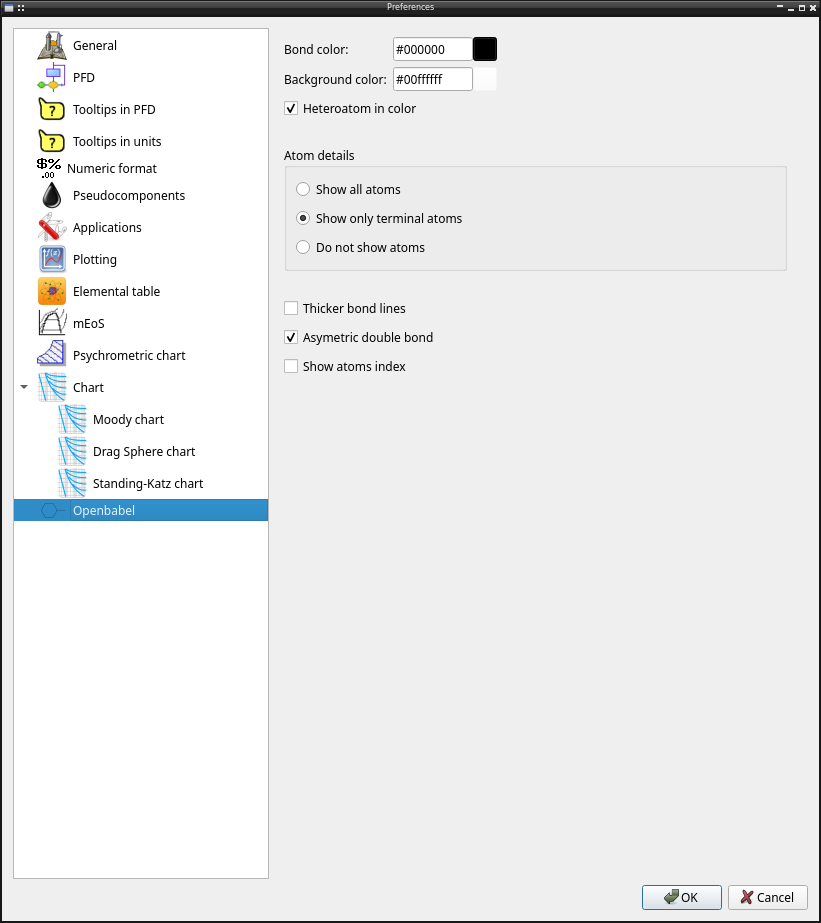
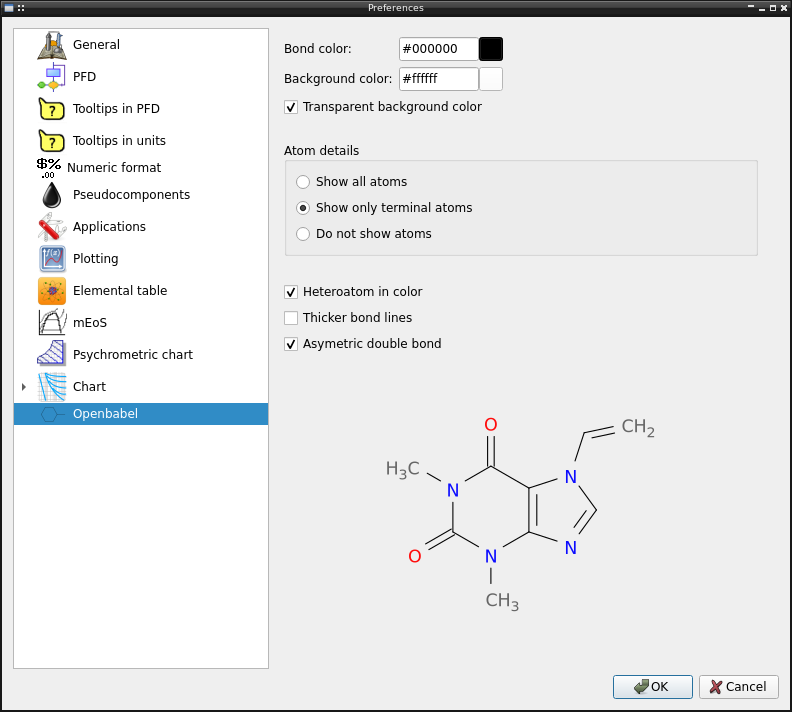
Fix openbabel extended formula representation changin svg format for png

diff --git a/lib/openbabel.py b/lib/openbabel.py
@@ -30,7 +30,7 @@ from configparser import ConfigParser
 import tempfile
 import os
 
-from tools.qt import QtCore, QtWidgets, QtSvg, QtSvgWidgets, QtGui
+from tools.qt import QtCore, QtWidgets, QtGui
 
 try:
     from openbabel.pybel import readstring
@@ -55,35 +55,36 @@ def imageFromSmile(smile, fname, conf):
 
     # Get dict parameters for exported image configuration
     # Parameters available from openbabel documentation
-    # https://openbabel.org/docs/current/FileFormats/SVG_2D_depiction.html
+    # https://openbabel.org/docs/current/FileFormats/PNG_2D_depiction.html
 
+    # - p <num>: px Image size, default 300
+    # - w <pixels>: image width (or from image size)
+    # - h <pixels>: image height (or from image size)
+    # - c <num>: number of columns in table
+    # - r <num>: number of rows in table
+    # - N <num>:max number objects to be output
     # + u: no element-specific atom coloring
     # - U: can define alternate color to internally-specified
     # + b: background color
     # + C: Do not draw terminal C (and H) explicitly
     # + a: draw all carbon atoms
     # - d: do not display molecule name
+    # - m: do not add margins to the image
     # + s: use asymmetric double bonds
     # + t: use thicker lines
-    # - e: embed molecule as CML
-    # - p <num>: px Scale to bond length(single mol only)
-    # - P <num>:px Single mol in defined size image
-    # - c <num>: number of columns in table
-    # - cols <num>: number of columns in table(not displayed in GUI)
-    # - r <num>: number of rows in table
-    # - rows <num>: number of rows in table(not displayed in GUI)
-    # - N <num>:max number objects to be output
-    # - l: draw grid lines
-    # + i: add index to each atom
-    # - j: do not embed javascript
-    # - x: omit XML declaration (not displayed in GUI)
     # - A: display aliases, if present
+    # - O <format ID>: Format of embedded text. For example, molfile or smi.
+    #                  If there is no parameter, input format is used.
+    # - y <additional chunk ID>: Write to a chunk with specified ID
 
     opt = {}
+    opt["m"] = None
 
     opt["B"] = conf.get("Openbabel", 'BondColor')
-    alpha = conf.getint("Openbabel", "BackColorAlpha")
+    alpha = conf.getboolean("Openbabel", "BackColorTransparent")
     if alpha:
+        opt["b"] = "none"
+    else:
         opt["b"] = conf.get("Openbabel", 'BackgroundColor')
 
     if not conf.getboolean("Openbabel", 'AtomsColor'):
@@ -100,24 +101,10 @@ def imageFromSmile(smile, fname, conf):
     if conf.getboolean("Openbabel", 'AsymetricDouble'):
         opt["s"] = None
 
-    if conf.getboolean("Openbabel", 'AtomIndex'):
-        opt["i"] = None
+    opt["x"] = None
 
     mol = readstring("smi", smile)
-    mol.write("svg", filename=fname, overwrite=True, opt=opt)
-
-    # Edit the generated file to edit the rect viewBox to fill all the image
-    with open(fname, 'r') as file:
-        data = file.read()
-
-    # Add too transparence to the background color
-    opacity = f' fill-opacity="{alpha/255:0.2f}"'
-    data = data.replace(
-        '<rect x="0" y="0" width="100" height="100"',
-        '<rect x="0" y="0" width="200" height="200"' + opacity)
-
-    with open(fname, 'w') as file:
-        file.write(data)
+    mol.write("_png2", filename=fname, overwrite=True, opt=opt)
 
 
 class ConfBabel(QtWidgets.QDialog):
@@ -131,12 +118,13 @@ class ConfBabel(QtWidgets.QDialog):
         self.BondColor.valueChanged.connect(self.updateImage)
         layout.addWidget(self.BondColor, 1, 2)
         layout.addWidget(QtWidgets.QLabel(self.tr("Background color:")), 2, 1)
-        self.BackColor = ColorSelector(isAlpha=True)
+        self.BackColor = ColorSelector()
         self.BackColor.valueChanged.connect(self.updateImage)
         layout.addWidget(self.BackColor, 2, 2)
-        self.checkColor = QtWidgets.QCheckBox(self.tr("Heteroatom in color"))
-        self.checkColor.stateChanged.connect(self.updateImage)
-        layout.addWidget(self.checkColor, 3, 1, 1, 2)
+        self.BackColorTransparent = QtWidgets.QCheckBox(
+            self.tr("Transparent background color"))
+        self.BackColorTransparent.stateChanged.connect(self.updateImage)
+        layout.addWidget(self.BackColorTransparent, 3, 1, 1, 2)
         layout.addItem(QtWidgets.QSpacerItem(
             20, 20, QtWidgets.QSizePolicy.Policy.Fixed,
             QtWidgets.QSizePolicy.Policy.Fixed), 4, 1, 1, 2)
@@ -157,22 +145,22 @@ class ConfBabel(QtWidgets.QDialog):
         layout.addItem(QtWidgets.QSpacerItem(
             20, 20, QtWidgets.QSizePolicy.Policy.Fixed,
             QtWidgets.QSizePolicy.Policy.Fixed), 6, 1, 1, 2)
+        self.checkColor = QtWidgets.QCheckBox(self.tr("Heteroatom in color"))
+        self.checkColor.stateChanged.connect(self.updateImage)
+        layout.addWidget(self.checkColor, 7, 1, 1, 2)
         self.checkTighBond = QtWidgets.QCheckBox(self.tr("Thicker bond lines"))
         self.checkTighBond.stateChanged.connect(self.updateImage)
-        layout.addWidget(self.checkTighBond, 7, 1, 1, 2)
+        layout.addWidget(self.checkTighBond, 8, 1, 1, 2)
         self.checkAsym = QtWidgets.QCheckBox(self.tr("Asymetric double bond"))
         self.checkAsym.stateChanged.connect(self.updateImage)
-        layout.addWidget(self.checkAsym, 8, 1, 1, 2)
-        self.checkIndex = QtWidgets.QCheckBox(self.tr("Show atoms index"))
-        self.checkIndex.stateChanged.connect(self.updateImage)
-        layout.addWidget(self.checkIndex, 9, 1, 1, 2)
+        layout.addWidget(self.checkAsym, 9, 1, 1, 2)
 
         if os.environ["openbabel"] == "False":
             self.example = QtWidgets.QLabel(
                 self.tr("Openbabel library don´t found"))
             self.example.setStyleSheet("color: red")
         else:
-            self.example = QtSvgWidgets.QSvgWidget()
+            self.example = QtWidgets.QLabel()
         layout.addWidget(self.example, 13, 1, 1, 2,
                          QtCore.Qt.AlignmentFlag.AlignCenter)
 
@@ -183,9 +171,10 @@ class ConfBabel(QtWidgets.QDialog):
         if config and config.has_section("Openbabel"):
             self.BondColor.setColor(config.get("Openbabel", 'BondColor'))
 
-            alpha = config.getint("Openbabel", 'BackColorAlpha')
+            self.BackColorTransparent.setChecked(
+                config.getboolean("Openbabel", 'BackColorTransparent'))
             self.BackColor.setColor(
-                config.get("Openbabel", 'BackgroundColor'), alpha)
+                config.get("Openbabel", 'BackgroundColor'))
             self.checkColor.setChecked(
                 config.getboolean("Openbabel", 'AtomsColor'))
             self.radioAll.setChecked(
@@ -198,12 +187,11 @@ class ConfBabel(QtWidgets.QDialog):
                 config.getboolean("Openbabel", 'TighBond'))
             self.checkAsym.setChecked(
                 config.getboolean("Openbabel", 'AsymetricDouble'))
-            self.checkIndex.setChecked(
-                config.getboolean("Openbabel", 'AtomIndex'))
 
             self.updateImage(config)
 
     def updateImage(self, config=None):
+        """Update image shown when changing some of the parameters"""
         if os.environ["openbabel"] == "False":
             return
 
@@ -211,14 +199,11 @@ class ConfBabel(QtWidgets.QDialog):
             config = ConfigParser()
             config = self.value(config)
 
-        imageFile = tempfile.NamedTemporaryFile("w", suffix=".svg")
-        smile = "C=CN1C=NC2=C1C(=O)N(C(=O)N2C)C"
-        imageFromSmile(smile, imageFile.name, config)
+        with tempfile.NamedTemporaryFile("w", suffix=".png") as imageFile:
+            smile = "C=CN1C=NC2=C1C(=O)N(C(=O)N2C)C"
+            imageFromSmile(smile, imageFile.name, config)
 
-        renderer = QtSvg.QSvgRenderer(imageFile.name)
-        self.example.load(imageFile.name)
-        self.example.renderer().setViewBox(QtCore.QRect(0, 0, 200, 200))
-        self.example.setFixedSize(renderer.defaultSize())
+            self.example.setPixmap(QtGui.QPixmap(imageFile.name))
 
     def value(self, config):
         """Update ConfigParser instance with the config"""
@@ -227,8 +212,8 @@ class ConfBabel(QtWidgets.QDialog):
         config.set("Openbabel", "BondColor", self.BondColor.color.name())
         config.set("Openbabel", "BackgroundColor",
                    self.BackColor.color.name(QtGui.QColor.NameFormat.HexRgb))
-        config.set("Openbabel", "BackColorAlpha",
-                   str(self.BackColor.color.alpha()))
+        config.set("Openbabel", "BackColorTransparent",
+                   str(self.BackColorTransparent.isChecked()))
         config.set("Openbabel", "AtomsColor", str(self.checkColor.isChecked()))
         config.set("Openbabel", "AtomsAll", str(self.radioAll.isChecked()))
         config.set("Openbabel", "AtomsEnd", str(self.radioEnd.isChecked()))
@@ -237,5 +222,4 @@ class ConfBabel(QtWidgets.QDialog):
                    str(self.checkTighBond.isChecked()))
         config.set("Openbabel", "AsymetricDouble",
                    str(self.checkAsym.isChecked()))
-        config.set("Openbabel", "AtomIndex", str(self.checkIndex.isChecked()))
         return config

diff --git a/UI/viewComponents.py b/UI/viewComponents.py
@@ -32,7 +32,7 @@ import tempfile
 
 from numpy import array, linspace
 from scipy import optimize
-from tools.qt import QtCore, QtGui, QtWidgets, QtSvg, QtSvgWidgets
+from tools.qt import QtCore, QtGui, QtWidgets
 
 from lib.plot import PlotDialog
 from lib.compuestos import (Componente, MuL_Parametric, Pv_Antoine, Pv_Wagner,
@@ -882,7 +882,7 @@ class View_Component(QtWidgets.QDialog):
 
         labelFormula2 = QtWidgets.QLabel(self.tr("Expanded Formula"))
         lytGeneral.addWidget(labelFormula2, 5, 1)
-        self.formula2 = QtSvgWidgets.QSvgWidget()
+        self.formula2 = QtWidgets.QLabel()
         lytGeneral.addWidget(self.formula2, 6, 1, 5, 3,
                              QtCore.Qt.AlignmentFlag.AlignCenter)
         if os.environ["openbabel"] != "True":
@@ -1675,13 +1675,10 @@ class View_Component(QtWidgets.QDialog):
         if self.cmp.smile and os.environ["openbabel"] == "True":
             self.smile.setText(self.cmp.smile)
 
-            imageFile = tempfile.NamedTemporaryFile("w", suffix=".svg")
+            imageFile = tempfile.NamedTemporaryFile("w", suffix=".png")
             imageFromSmile(self.cmp.smile, imageFile.name, Preferences)
 
-            renderer = QtSvg.QSvgRenderer(imageFile.name)
-            self.formula2.load(imageFile.name)
-            self.formula2.renderer().setViewBox(QtCore.QRect(0, 0, 200, 200))
-            self.formula2.setFixedSize(renderer.defaultSize())
+            self.formula2.setPixmap(QtGui.QPixmap(imageFile.name))
 
         if self.cmp.UNIFAC != []:
             self.UNIFAC.setRowCount(len(self.cmp.UNIFAC))

diff --git a/tools/firstrun.py b/tools/firstrun.py
@@ -589,7 +589,7 @@ def Preferences():
     conf.add_section("Openbabel")
     conf.set("Openbabel", "BondColor", "#000000")
     conf.set("Openbabel", "BackgroundColor", "#ffffff")
-    conf.set("Openbabel", "BackColorAlpha", "0")
+    conf.set("Openbabel", "BackColorTransparent", "True")
     conf.set("Openbabel", "AtomsColor", "True")
     conf.set("Openbabel", "AtomsAll", "False")
     conf.set("Openbabel", "AtomsEnd", "True")
@@ -597,7 +597,6 @@ def Preferences():
     conf.set("Openbabel", "AtomsIndex", "False")
     conf.set("Openbabel", "TighBond", "False")
     conf.set("Openbabel", "AsymetricDouble", "True")
-    conf.set("Openbabel", "AtomIndex", "False")
 
     return conf
 
